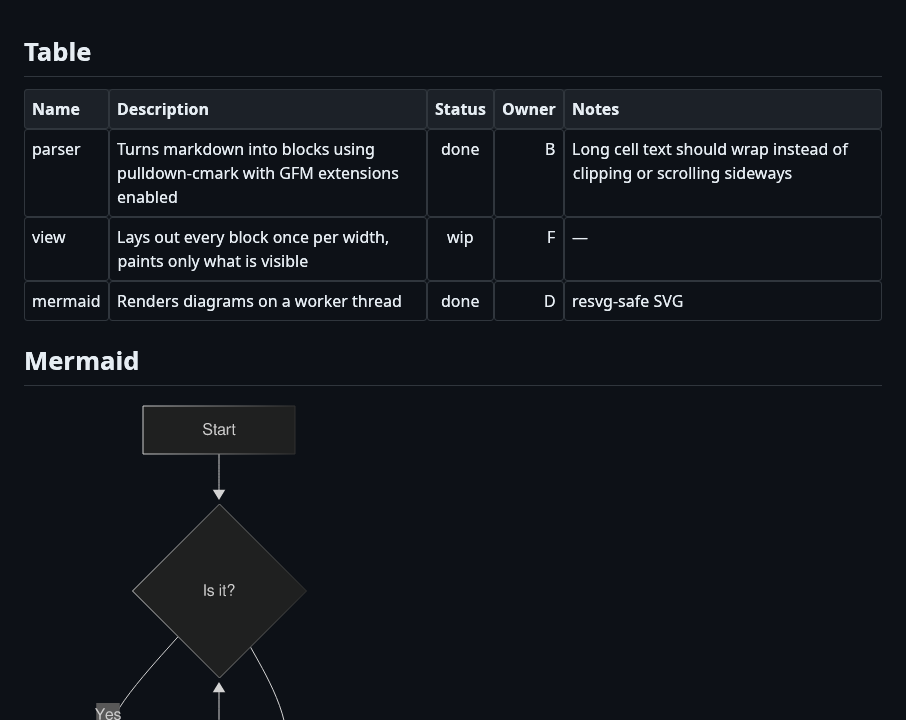
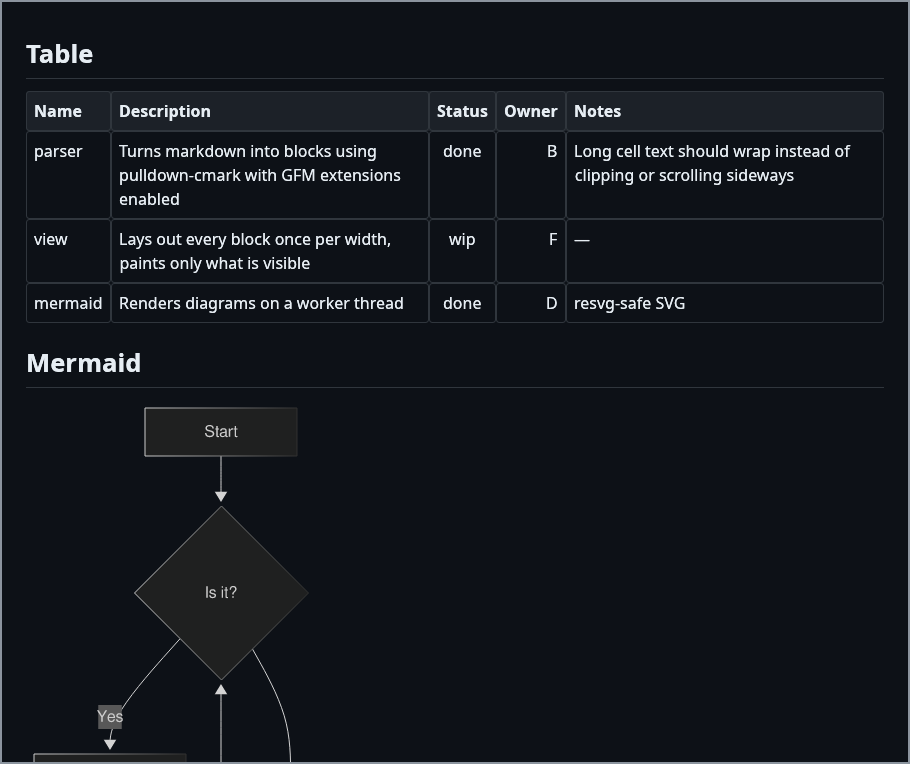
docs: show screenshots side by side with frames and captions

diff --git a/README.md b/README.md
@@ -4,7 +4,11 @@ A fast, low-memory, read-only Markdown viewer for Linux. You run `synthon file.m
 
 It's as simple as [glow](https://github.com/charmbracelet/glow), but mermaid diagrams and highlighted code render as real graphics instead of terminal text.
 
-![synthon rendering a document in the light theme](docs/screenshots/light.png)
+| Light theme | Dark theme, full width | CJK and emoji |
+|:---:|:---:|:---:|
+| <img src="docs/screenshots/light.png" alt="synthon in the light theme: headings, lists, quotes and code" width="100%"> | <img src="docs/screenshots/dark-table-mermaid.png" alt="synthon in the dark theme at full width: a wide table and a mermaid flowchart" width="100%"> | <img src="docs/screenshots/unicode.png" alt="synthon rendering Chinese, Japanese and Korean text with colour emoji" width="100%"> |
+
+_Screenshots of the synthon window. Click one to view it full size._
 
 ## Features
 
@@ -17,10 +21,6 @@ It's as simple as [glow](https://github.com/charmbracelet/glow), but mermaid dia
 - **Full-width toggle and zoom:** `f` switches between a reading column and the full window, and zoom goes from 50% to 300%.
 - **Select and copy:** select text across paragraphs, lists, tables and code, and copy it as plain text. Clicking an `http(s)` or `mailto:` link opens it in your browser.
 - **Never blank:** every block on screen is laid out before it is painted, so scrolling never shows an empty frame, and your reading position holds when the window resizes.
-
-![Wide table and mermaid diagram in the dark theme, full width](docs/screenshots/dark-table-mermaid.png)
-
-![CJK text and colour emoji](docs/screenshots/unicode.png)
 
 ## Install
 
